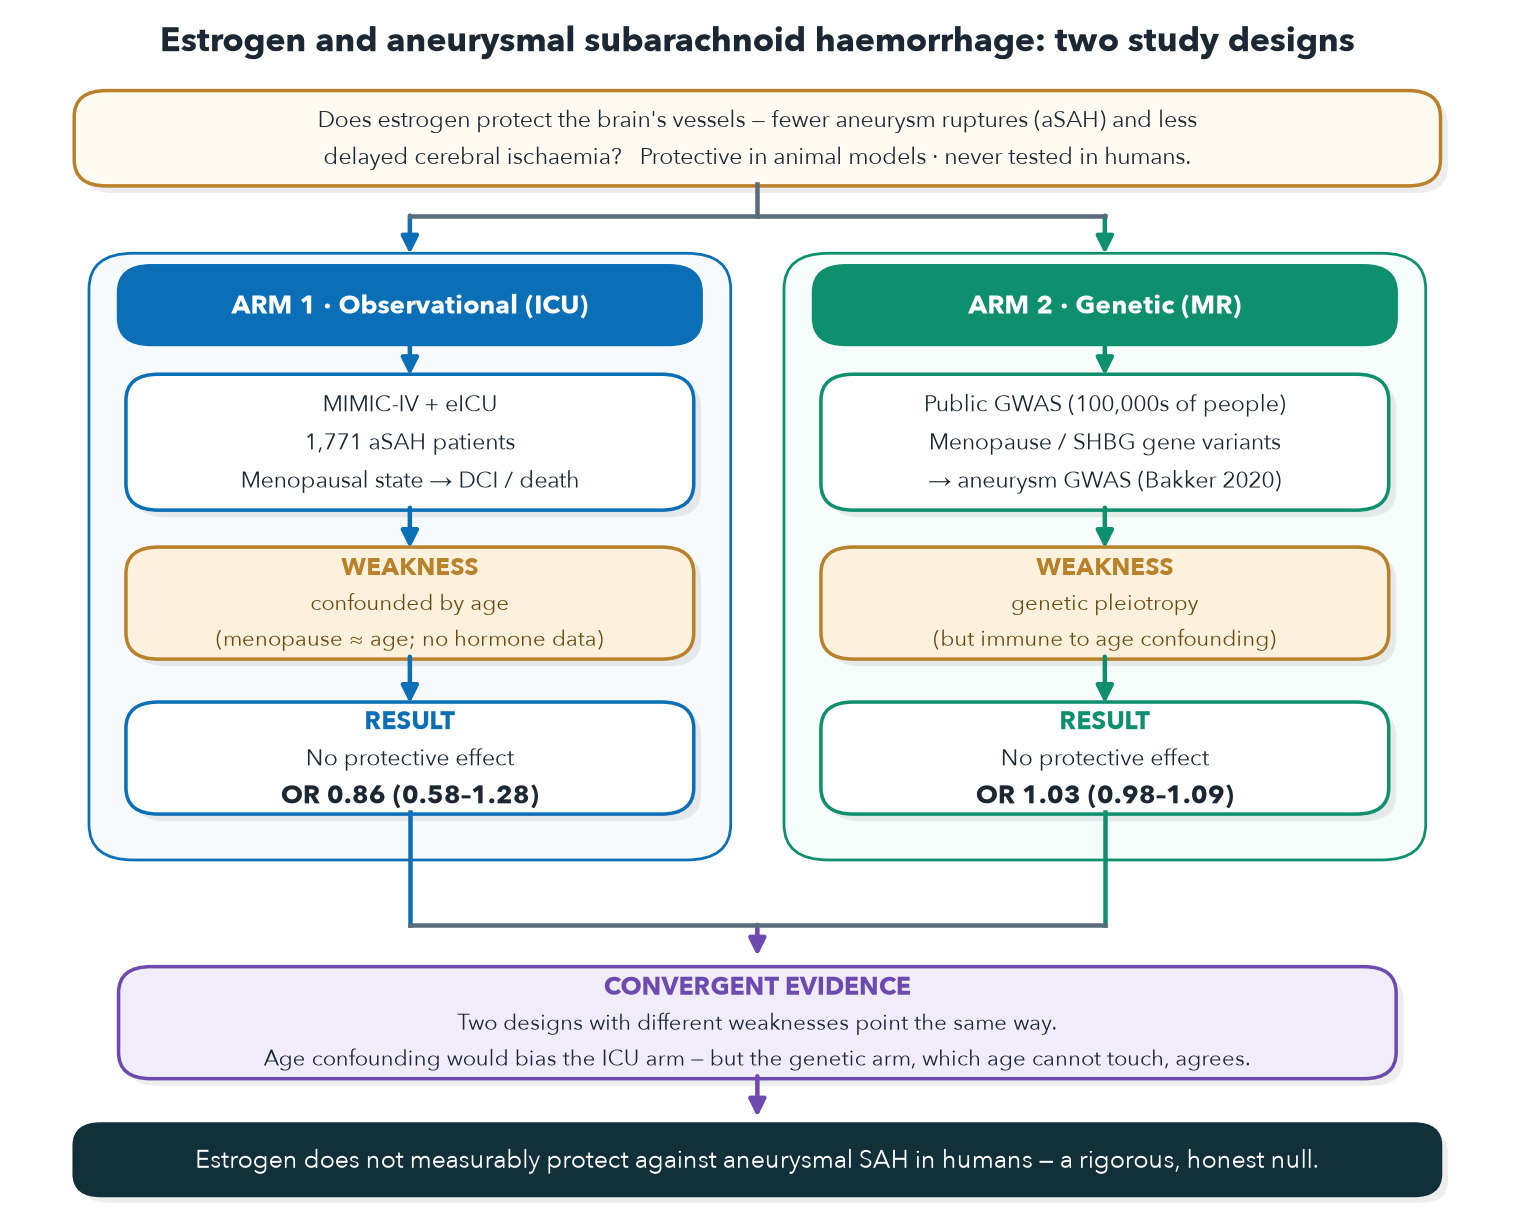
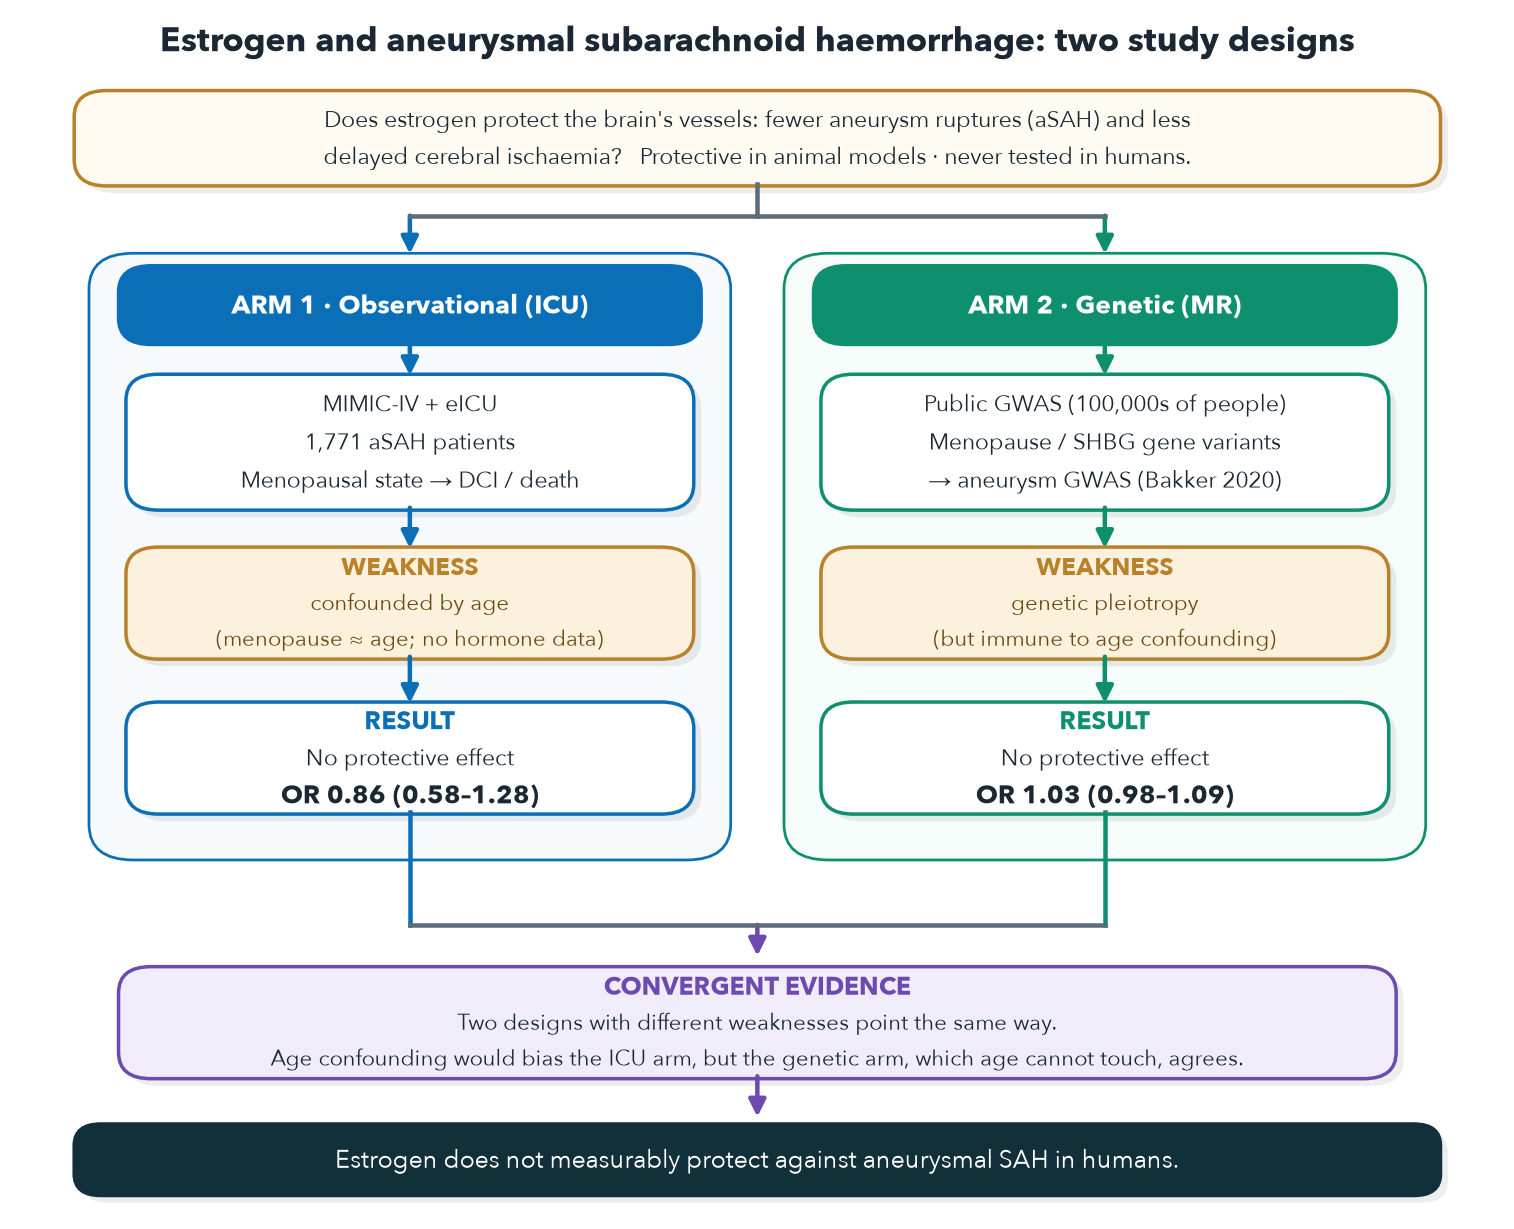
figure: remove 'a rigorous, honest null' from conclusion box; drop em-dashes

diff --git a/manuscript/figures/study_workflow.py b/manuscript/figures/study_workflow.py
@@ -59,7 +59,7 @@ ax.text(50, 97.3, "Estrogen and aneurysmal subarachnoid haemorrhage: two study d
 
 # question
 card(50, 90, 92, 7.6, [
-    "Does estrogen protect the brain's vessels — fewer aneurysm ruptures (aSAH) and less",
+    "Does estrogen protect the brain's vessels: fewer aneurysm ruptures (aSAH) and less",
     "delayed cerebral ischaemia?   Protective in animal models · never tested in humans."],
     fc="#FFFBF2", ec=AMBER, fs=9.2, lh=3.1)
 
@@ -116,13 +116,13 @@ varrow(50, rail, 21.4, color=PUR)
 # convergence
 card(50, 15.8, 86, 9, [
     "Two designs with different weaknesses point the same way.",
-    "Age confounding would bias the ICU arm — but the genetic arm, which age cannot touch, agrees."],
+    "Age confounding would bias the ICU arm, but the genetic arm, which age cannot touch, agrees."],
     head="CONVERGENT EVIDENCE", fc=PUR_BG, ec=PUR, fs=8.9, lh=3.0)
 varrow(50, 11.3, 7.9, color=PUR)
 
 # conclusion
 card(50, 4.3, 92, 5.6, [
-    "Estrogen does not measurably protect against aneurysmal SAH in humans — a rigorous, honest null."],
+    "Estrogen does not measurably protect against aneurysmal SAH in humans."],
     fc="#12303a", ec="#12303a", tc="white", fs=10.2, rs=1.8, shadow=True)
 
 fig.savefig("/Volumes/Niels 2/MIMIC/estrogen-asah-dci/manuscript/figures/study_workflow.png",
